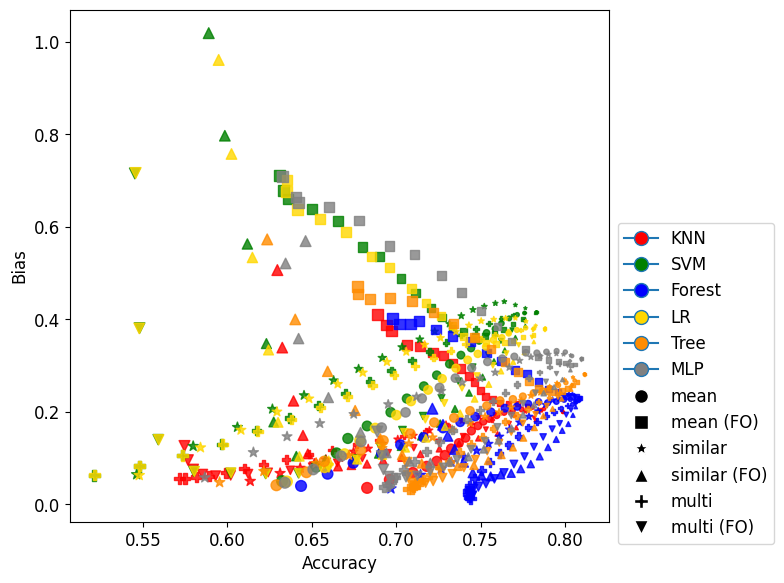
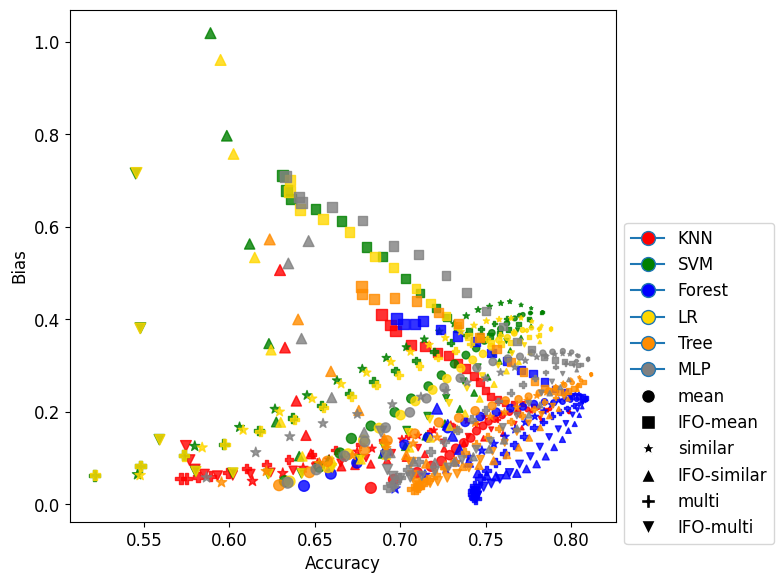
update plot results

diff --git a/script_plot.py b/script_plot.py
@@ -35,16 +35,16 @@ PLOT_BANK_F1            = False
 
 TRANSFORM_OUTPUTS       = True
 
-PLOT_CREATE_MEAN_V1     = True
-PLOT_CREATE_MEAN_V2     = True
-PLOT_CREATE_SIMILAR_V1  = True
-PLOT_CREATE_SIMILAR_V2  = True
-PLOT_CREATE_MULTI_V1    = True
-PLOT_CREATE_MULTI_V2    = True
+PLOT_CREATE_MEAN_V1     = False
+PLOT_CREATE_MEAN_V2     = False
+PLOT_CREATE_SIMILAR_V1  = False
+PLOT_CREATE_SIMILAR_V2  = False
+PLOT_CREATE_MULTI_V1    = False
+PLOT_CREATE_MULTI_V2    = False
 
 PLOT_PARETO_FRONTIER_ACC     = False
 PLOT_PARETO_FRONTIER_F1      = False
-PLOT_PARETO_FRONTIER_REALACC = False
+PLOT_PARETO_FRONTIER_REALACC = True
 
 PLOT_DEBUG_FUNCTION     = False
 
@@ -554,19 +554,19 @@ def plot_func_pareto_front(data, title, file_name=None, y_scale=None, switch=Fal
     if switch:
         custom_legend = [Line2D([0], [0], color='w', markerfacecolor="black", marker=x, label=y, markersize=10) for x,y in zip(plot_markers, classifiers_realnames)]
         custom_legend.append(Line2D([0], [0], markersize=10, markerfacecolor=plot_colors[0], marker="o", label="mean"))
-        custom_legend.append(Line2D([0], [0], markersize=10, markerfacecolor=plot_colors[1], marker="o", label="mean (FO)"))
+        custom_legend.append(Line2D([0], [0], markersize=10, markerfacecolor=plot_colors[1], marker="o", label="IFO-mean"))
         custom_legend.append(Line2D([0], [0], markersize=10, markerfacecolor=plot_colors[2], marker="o", label="similar"))
-        custom_legend.append(Line2D([0], [0], markersize=10, markerfacecolor=plot_colors[3], marker="o", label="similar (FO)"))
+        custom_legend.append(Line2D([0], [0], markersize=10, markerfacecolor=plot_colors[3], marker="o", label="IFO-similar"))
         custom_legend.append(Line2D([0], [0], markersize=10, markerfacecolor=plot_colors[4], marker="o", label="multi"))
-        custom_legend.append(Line2D([0], [0], markersize=10, markerfacecolor=plot_colors[5], marker="o", label="multi (FO)"))
+        custom_legend.append(Line2D([0], [0], markersize=10, markerfacecolor=plot_colors[5], marker="o", label="IFO-multi"))
     else:
         custom_legend = [Line2D([0], [0], markerfacecolor=x, marker="o", label=y, markersize=10) for x,y in zip(plot_colors, classifiers_realnames)]
         custom_legend.append(Line2D([0], [0], color='w', markersize=10, markerfacecolor="black", marker=plot_markers[0], label="mean"))
-        custom_legend.append(Line2D([0], [0], color='w', markersize=10, markerfacecolor="black", marker=plot_markers[1], label="mean (FO)"))
+        custom_legend.append(Line2D([0], [0], color='w', markersize=10, markerfacecolor="black", marker=plot_markers[1], label="IFO-mean"))
         custom_legend.append(Line2D([0], [0], color='w', markersize=10, markerfacecolor="black", marker=plot_markers[2], label="similar"))
-        custom_legend.append(Line2D([0], [0], color='w', markersize=10, markerfacecolor="black", marker=plot_markers[3], label="similar (FO)"))
+        custom_legend.append(Line2D([0], [0], color='w', markersize=10, markerfacecolor="black", marker=plot_markers[3], label="IFO-similar"))
         custom_legend.append(Line2D([0], [0], color='w', markersize=10, markerfacecolor="black", marker=plot_markers[4], label="multi"))
-        custom_legend.append(Line2D([0], [0], color='w', markersize=10, markerfacecolor="black", marker=plot_markers[5], label="multi (FO)"))
+        custom_legend.append(Line2D([0], [0], color='w', markersize=10, markerfacecolor="black", marker=plot_markers[5], label="IFO-multi"))
     plt.legend(handles=custom_legend, bbox_to_anchor=(1, 0.6))
     fig.tight_layout()
     # fig.suptitle(title)
